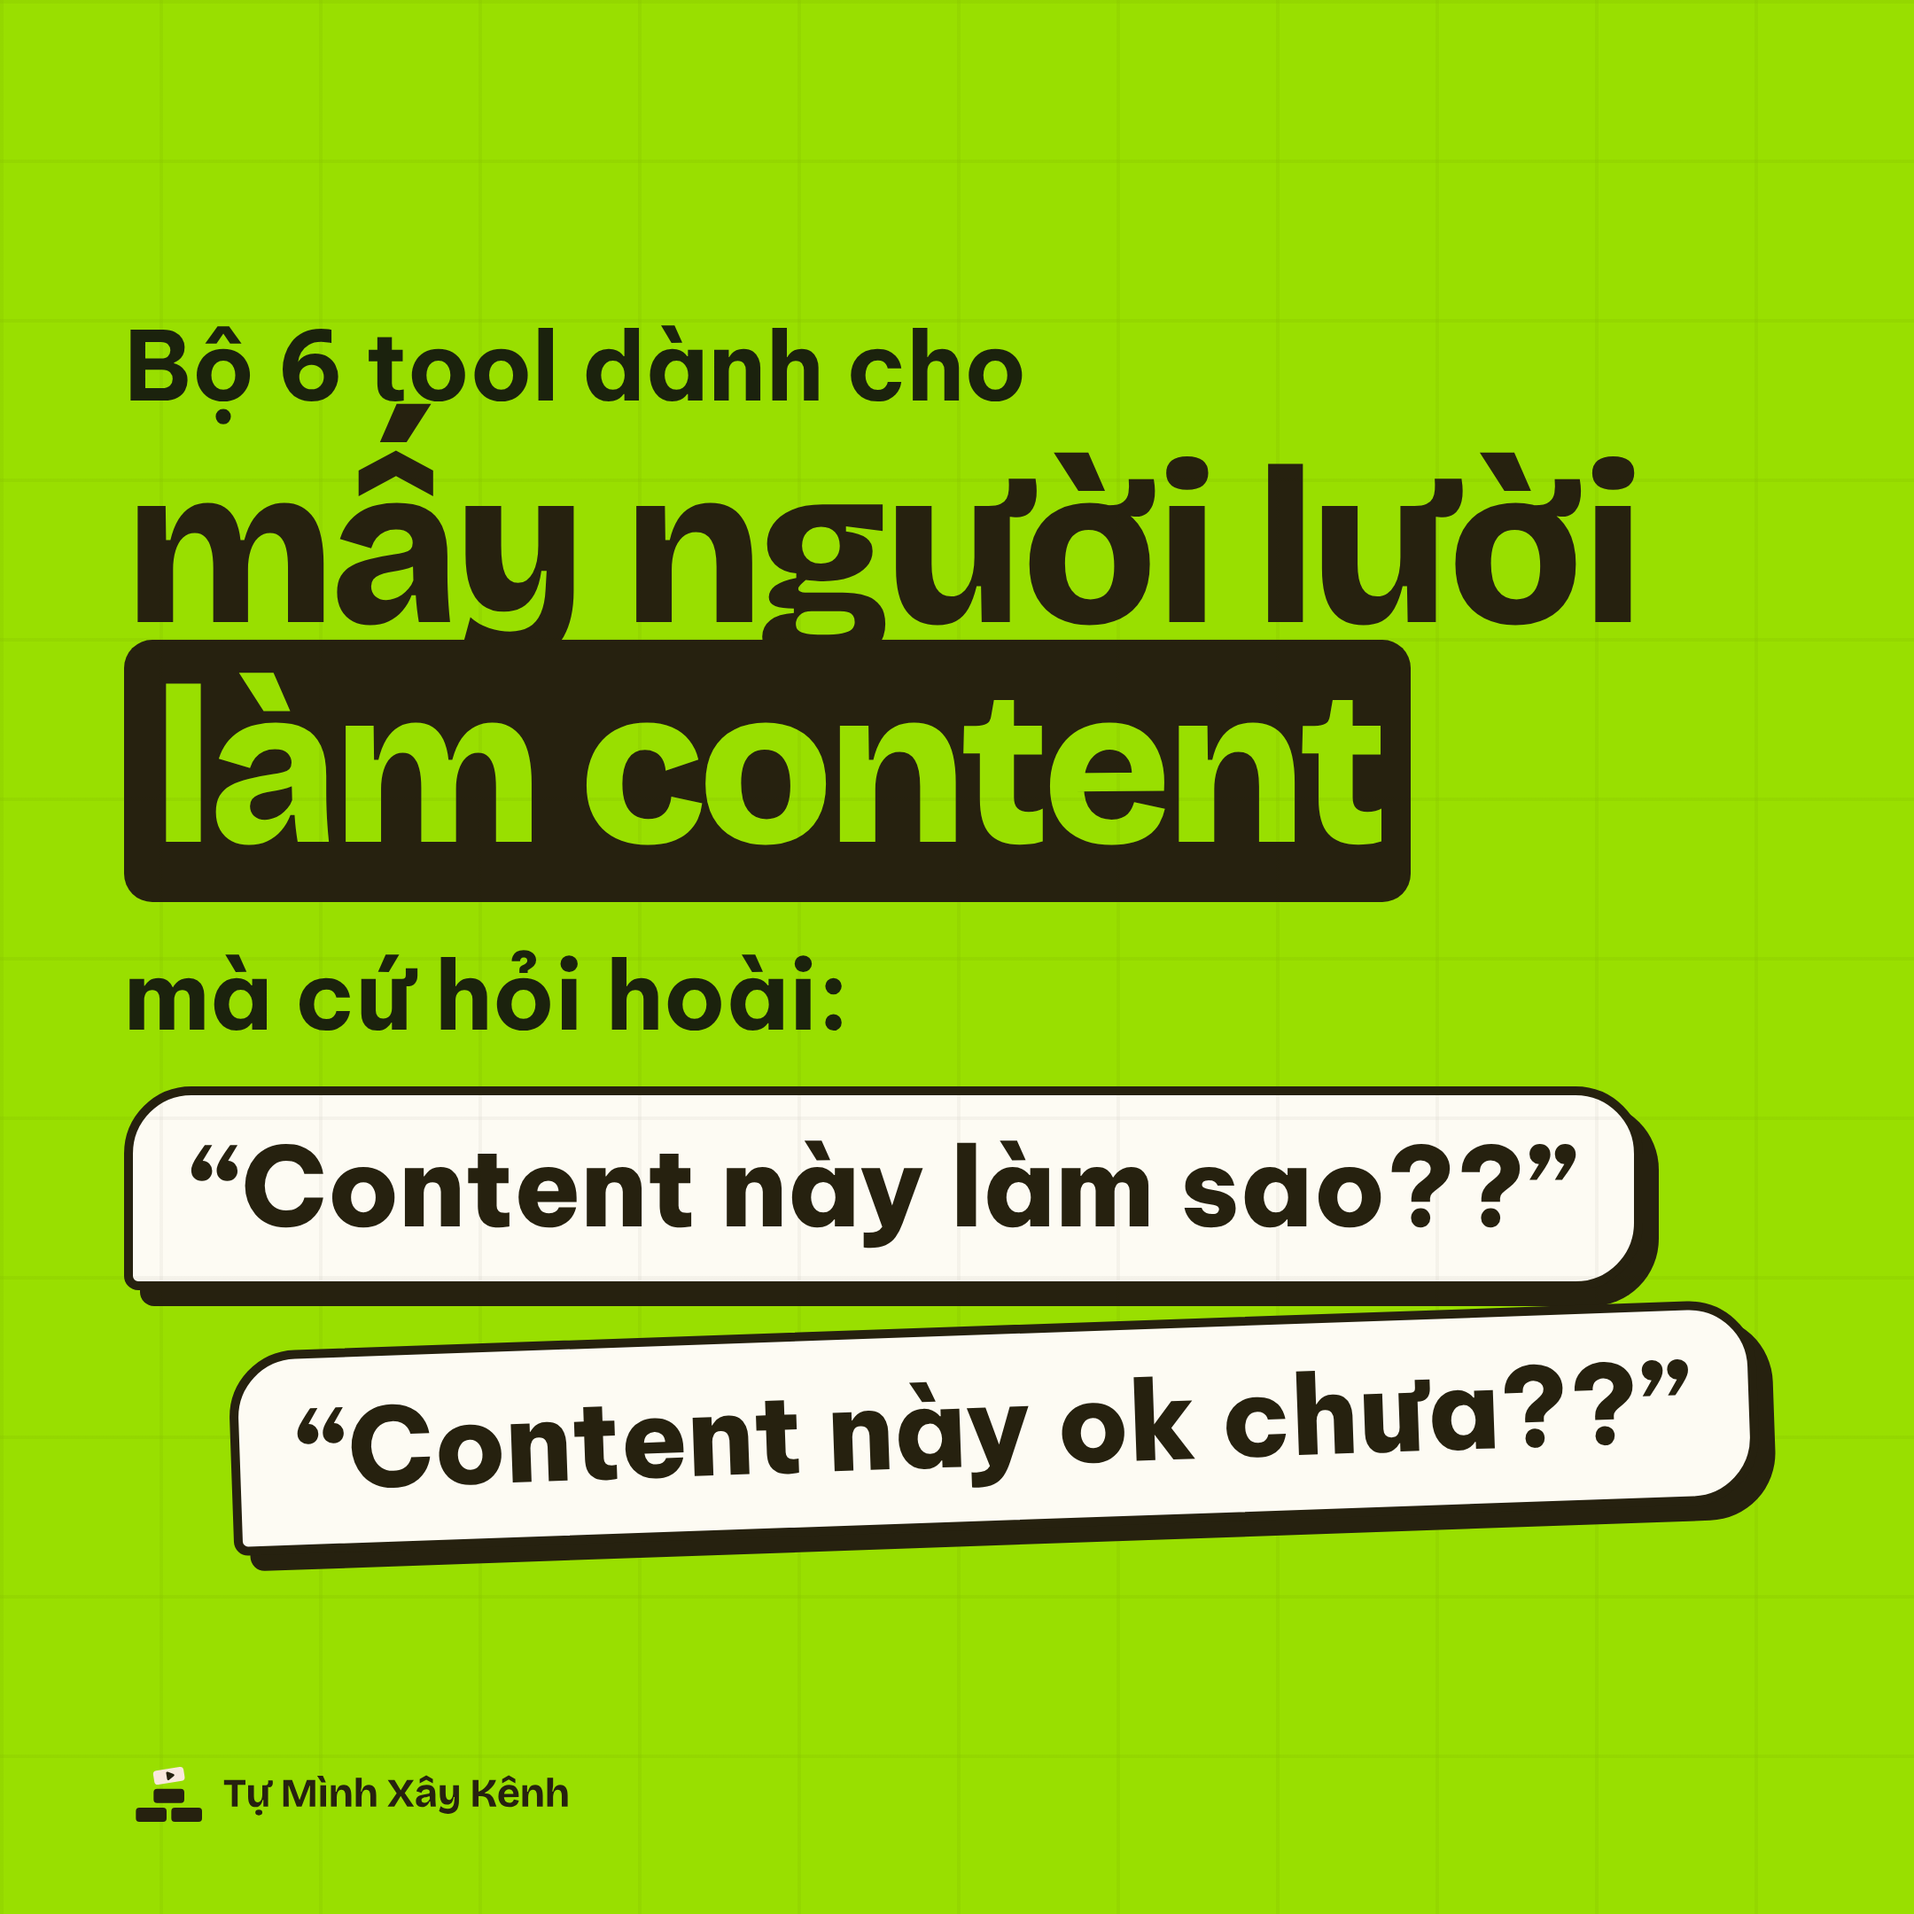
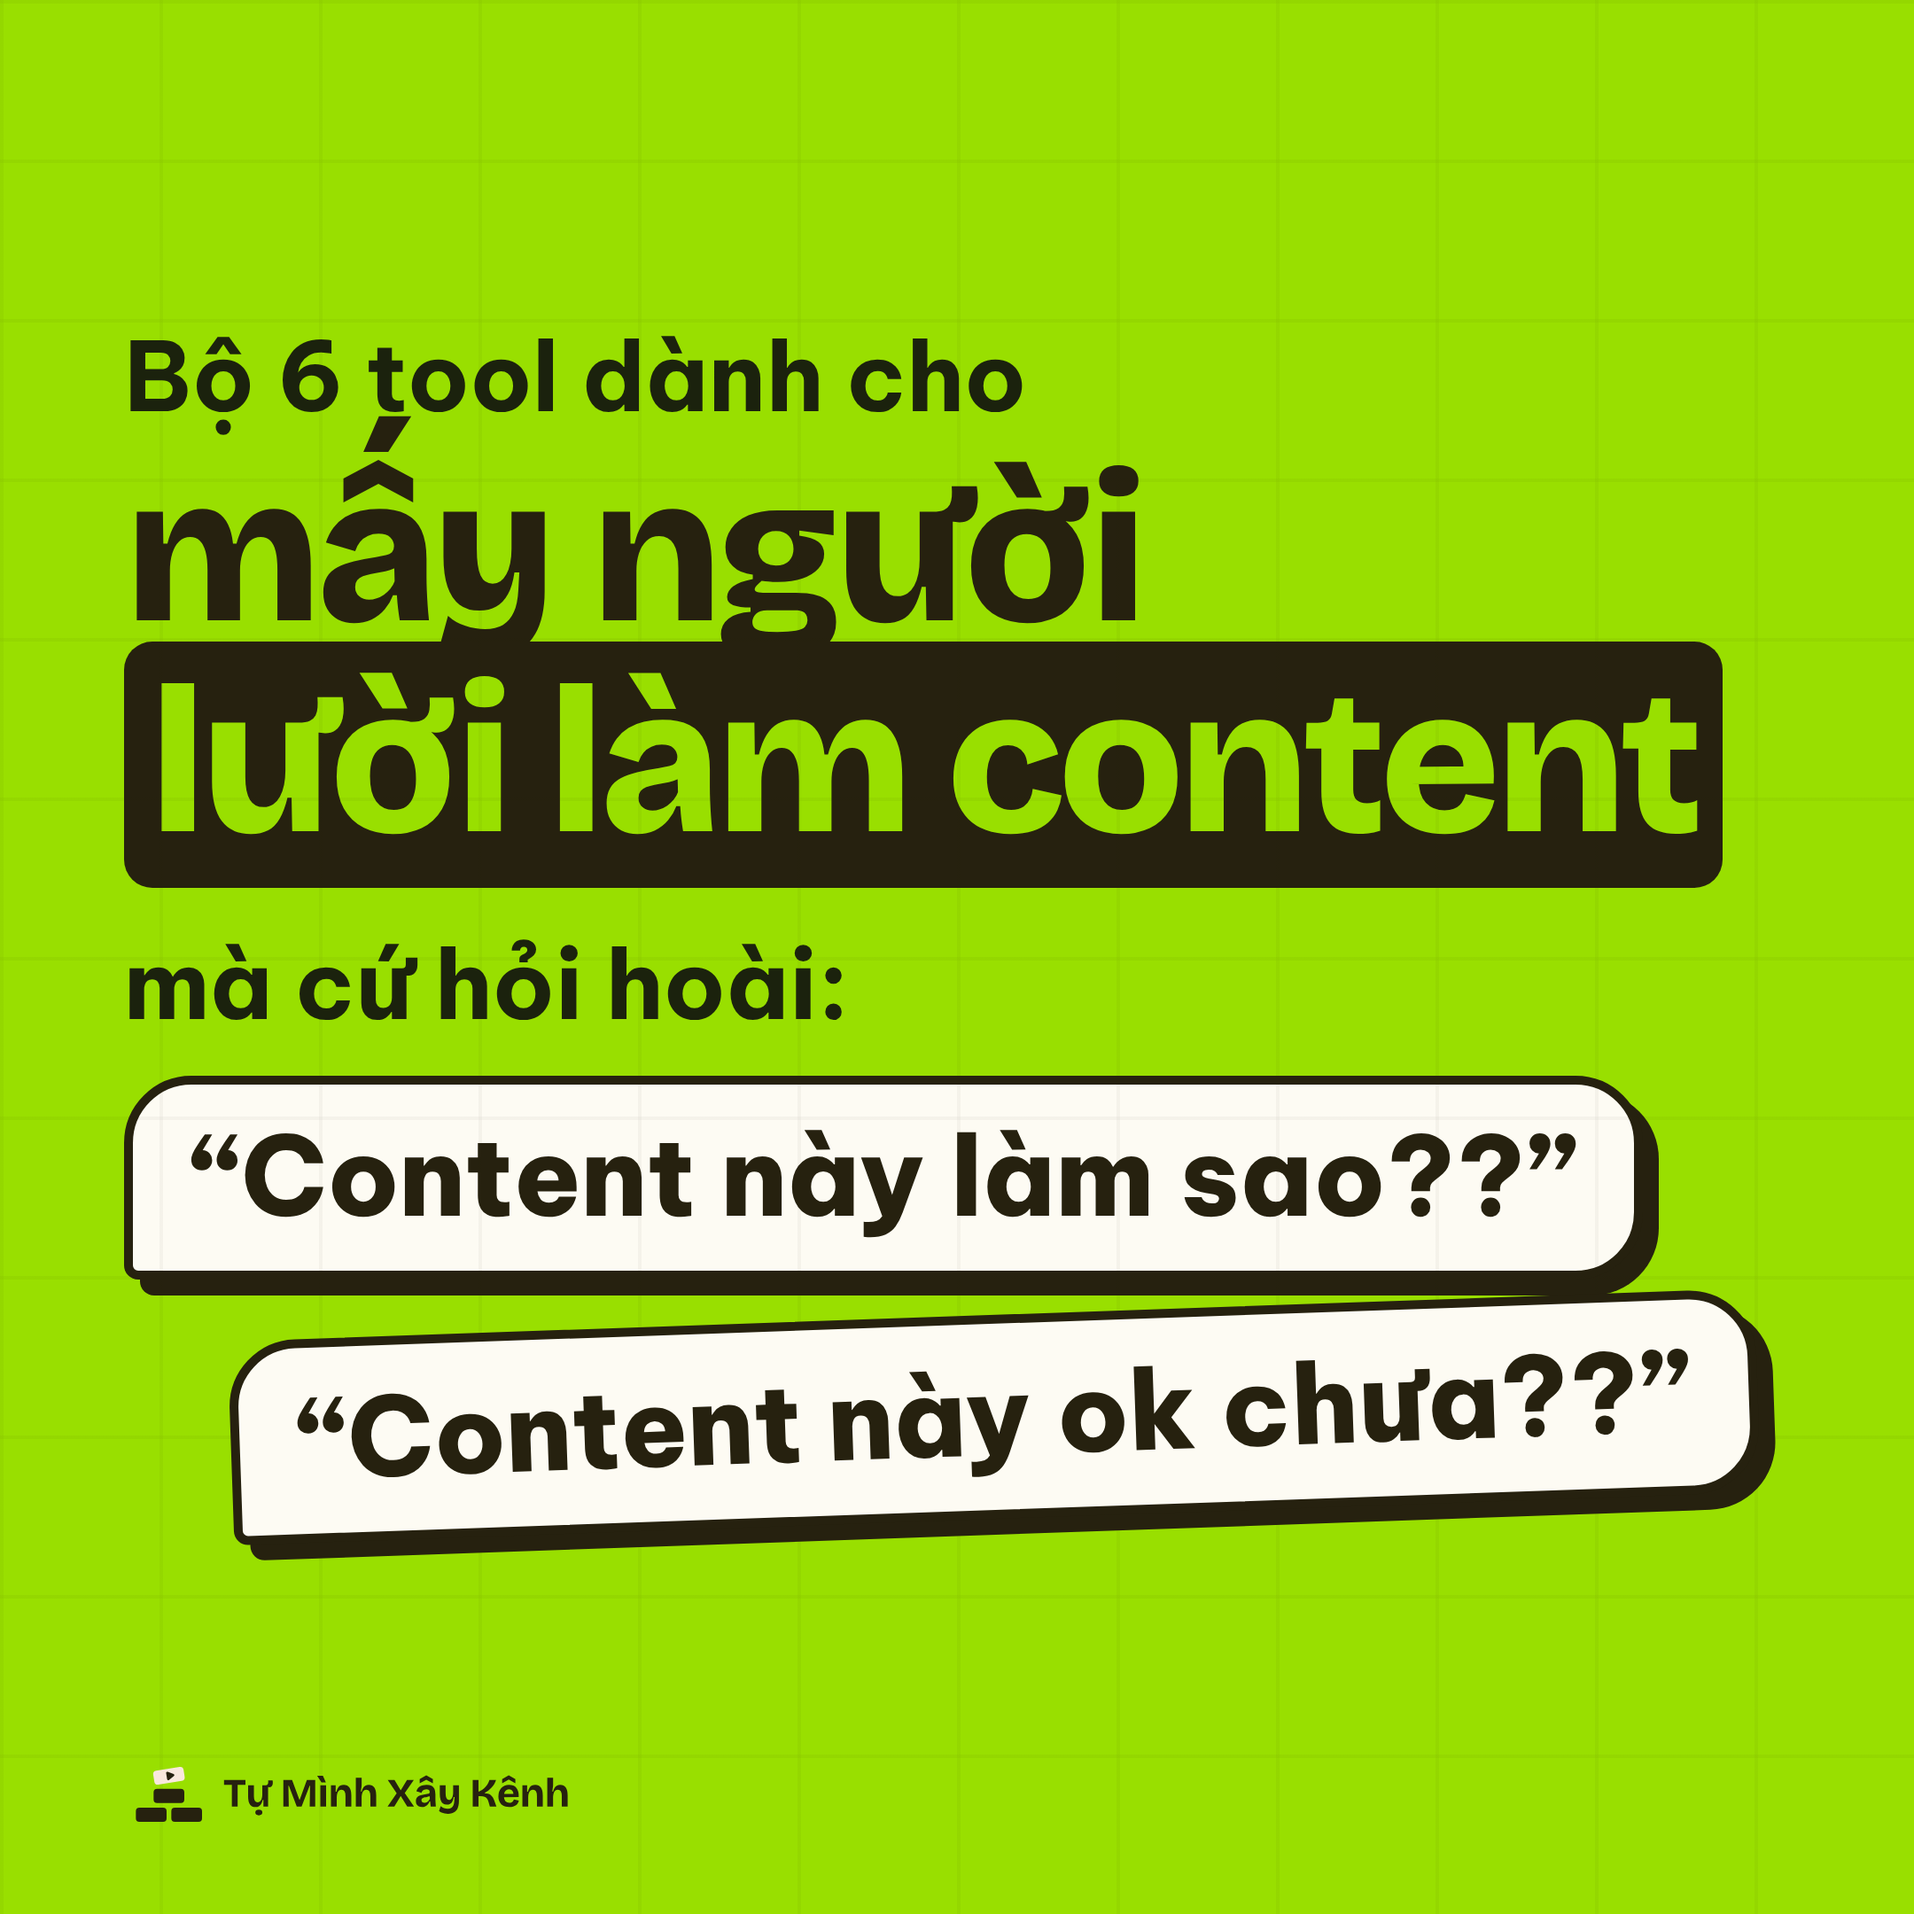
Poster Facebook: ảnh nhá hàng ngắt cụm "mấy người / lười làm content"
Claude-Session: https://claude.ai/code/session_01DLoQkHnYKA1ATrTvxbMQPm

Changed region(s): [[0.062, 0.1551, 0.9306, 0.8375], [0.3102, 0.1551, 0.5273, 0.2171]]

diff --git a/poster-fb/poster.html b/poster-fb/poster.html
@@ -107,8 +107,8 @@
   .nha{display:flex;flex-direction:column;justify-content:center;padding:0 70px 40px}
   .nha.vuong{height:1080px}
   .nha .nho{font:700 54px/1.15 var(--font-ui);color:var(--moss)}
-  .nha .to{font:800 124px/1 var(--font-display);letter-spacing:-.03em;margin-top:10px}
-  .nha .to mark{background:var(--ink);color:var(--lime);padding:0 16px;border-radius:16px}
+  .nha .to{font:800 116px/1.02 var(--font-display);white-space:nowrap;letter-spacing:-.03em;margin-top:10px}
+  .nha .to mark{background:var(--ink);color:var(--lime);padding:0 14px;border-radius:16px}
   .nha .hoi{font:700 54px/1.15 var(--font-ui);color:var(--moss);margin-top:34px}
   .nha .bb{align-self:flex-start;margin-top:20px;background:var(--surface);border:5px solid var(--ink);border-radius:38px 38px 38px 8px;padding:18px 32px;font:800 62px/1.12 var(--font-ui);box-shadow:9px 9px 0 var(--ink)}
   .nha .bb.hai{margin-left:60px;transform:rotate(-2deg)}
@@ -350,7 +350,7 @@
 <!-- ═══════════ 08 · NHÁ HÀNG (bài chữ, đăng trước chuỗi) ═══════════ -->
 <section class="poster nha vuong" id="08-nha-hang">
   <div class="nho">Bộ 6 tool dành cho</div>
-  <div class="to">mấy người lười<br><mark>làm content</mark></div>
+  <div class="to">mấy người<br><mark>lười làm content</mark></div>
   <div class="hoi">mà cứ hỏi hoài:</div>
   <div class="bb">“Content này làm sao??”</div>
   <div class="bb hai">“Content này ok chưa??”</div>
